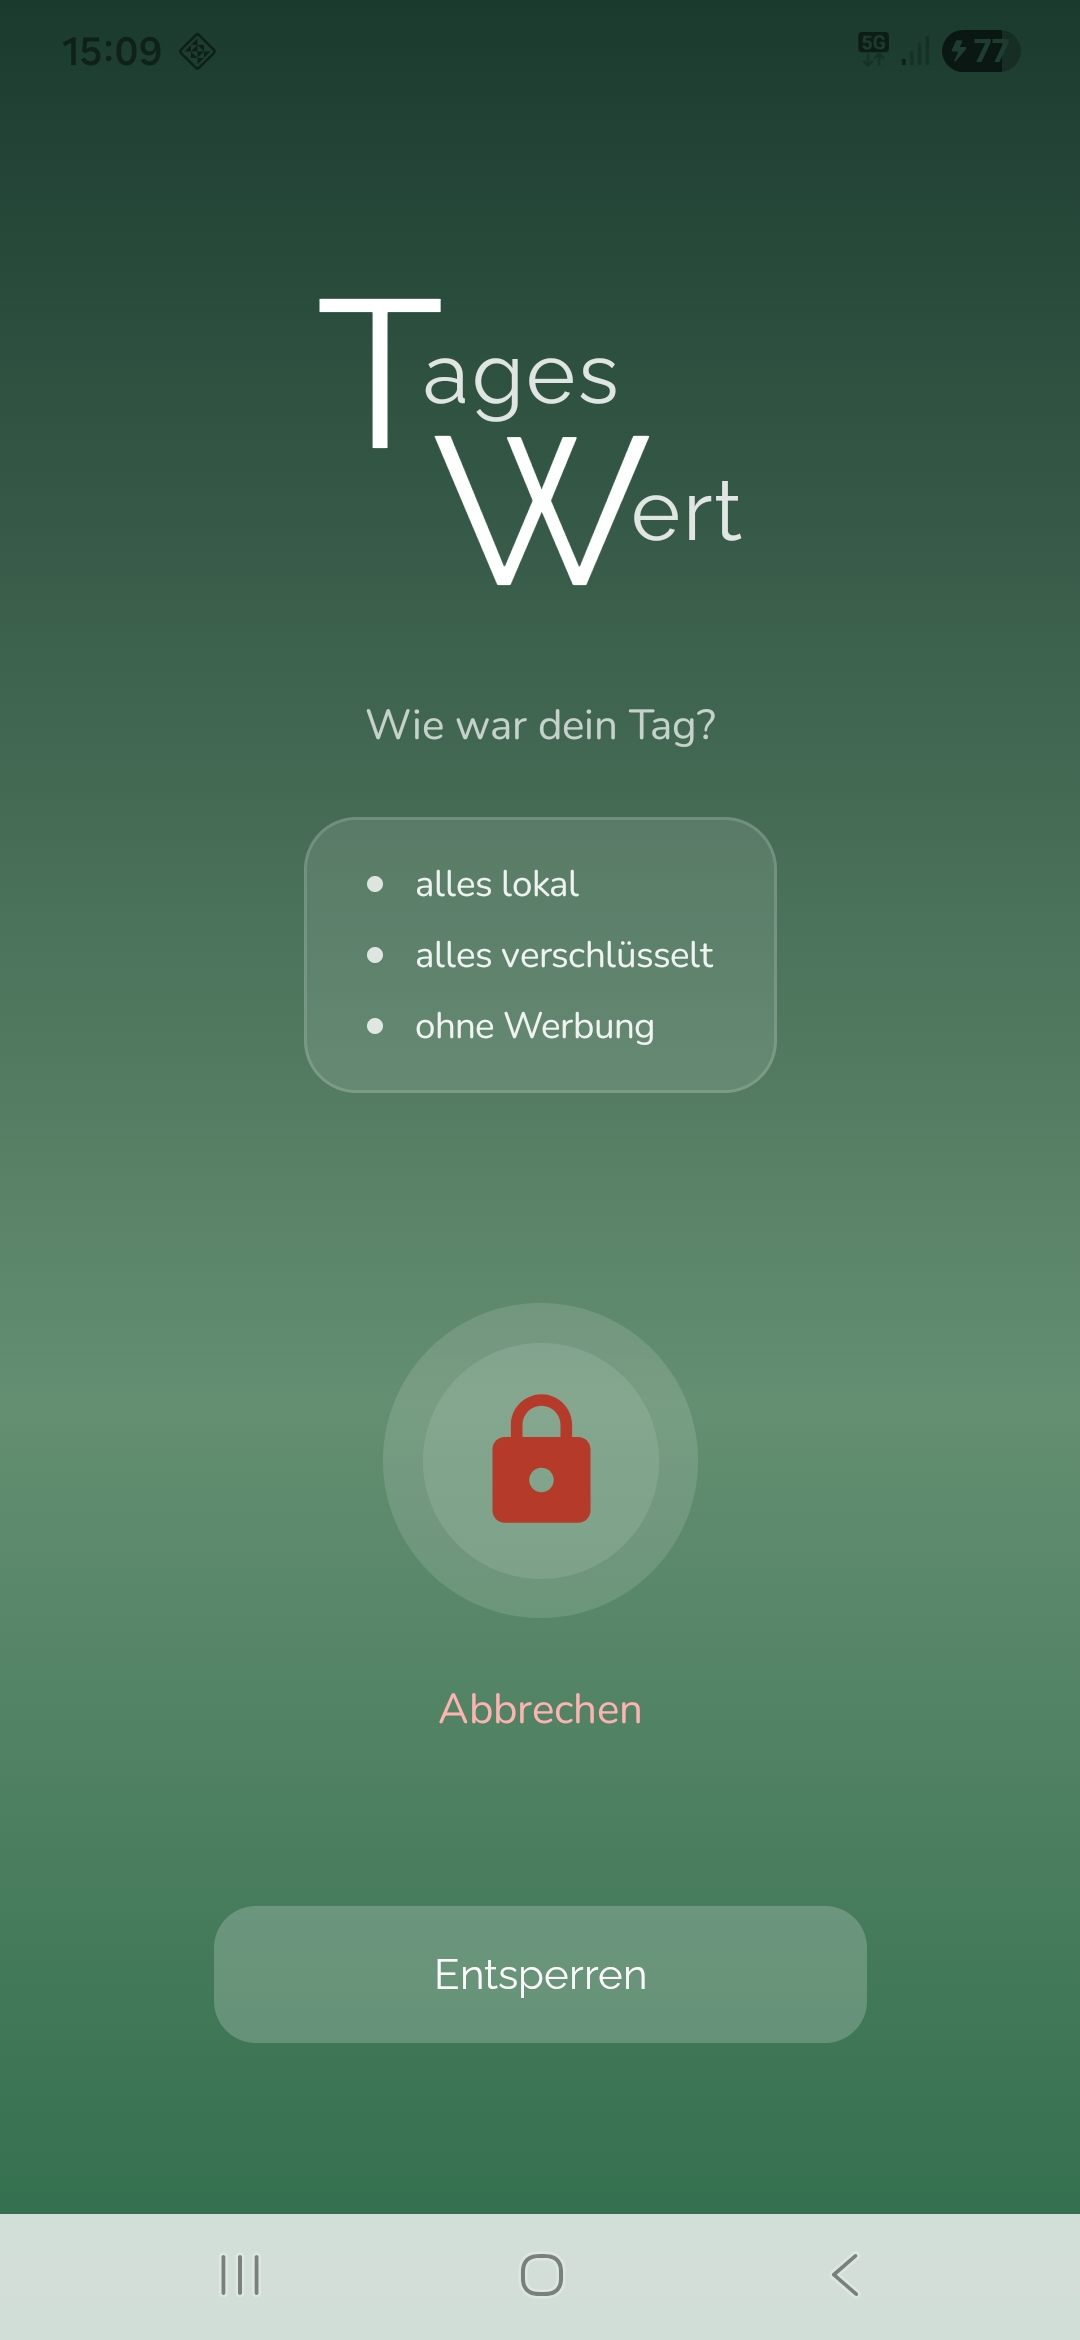
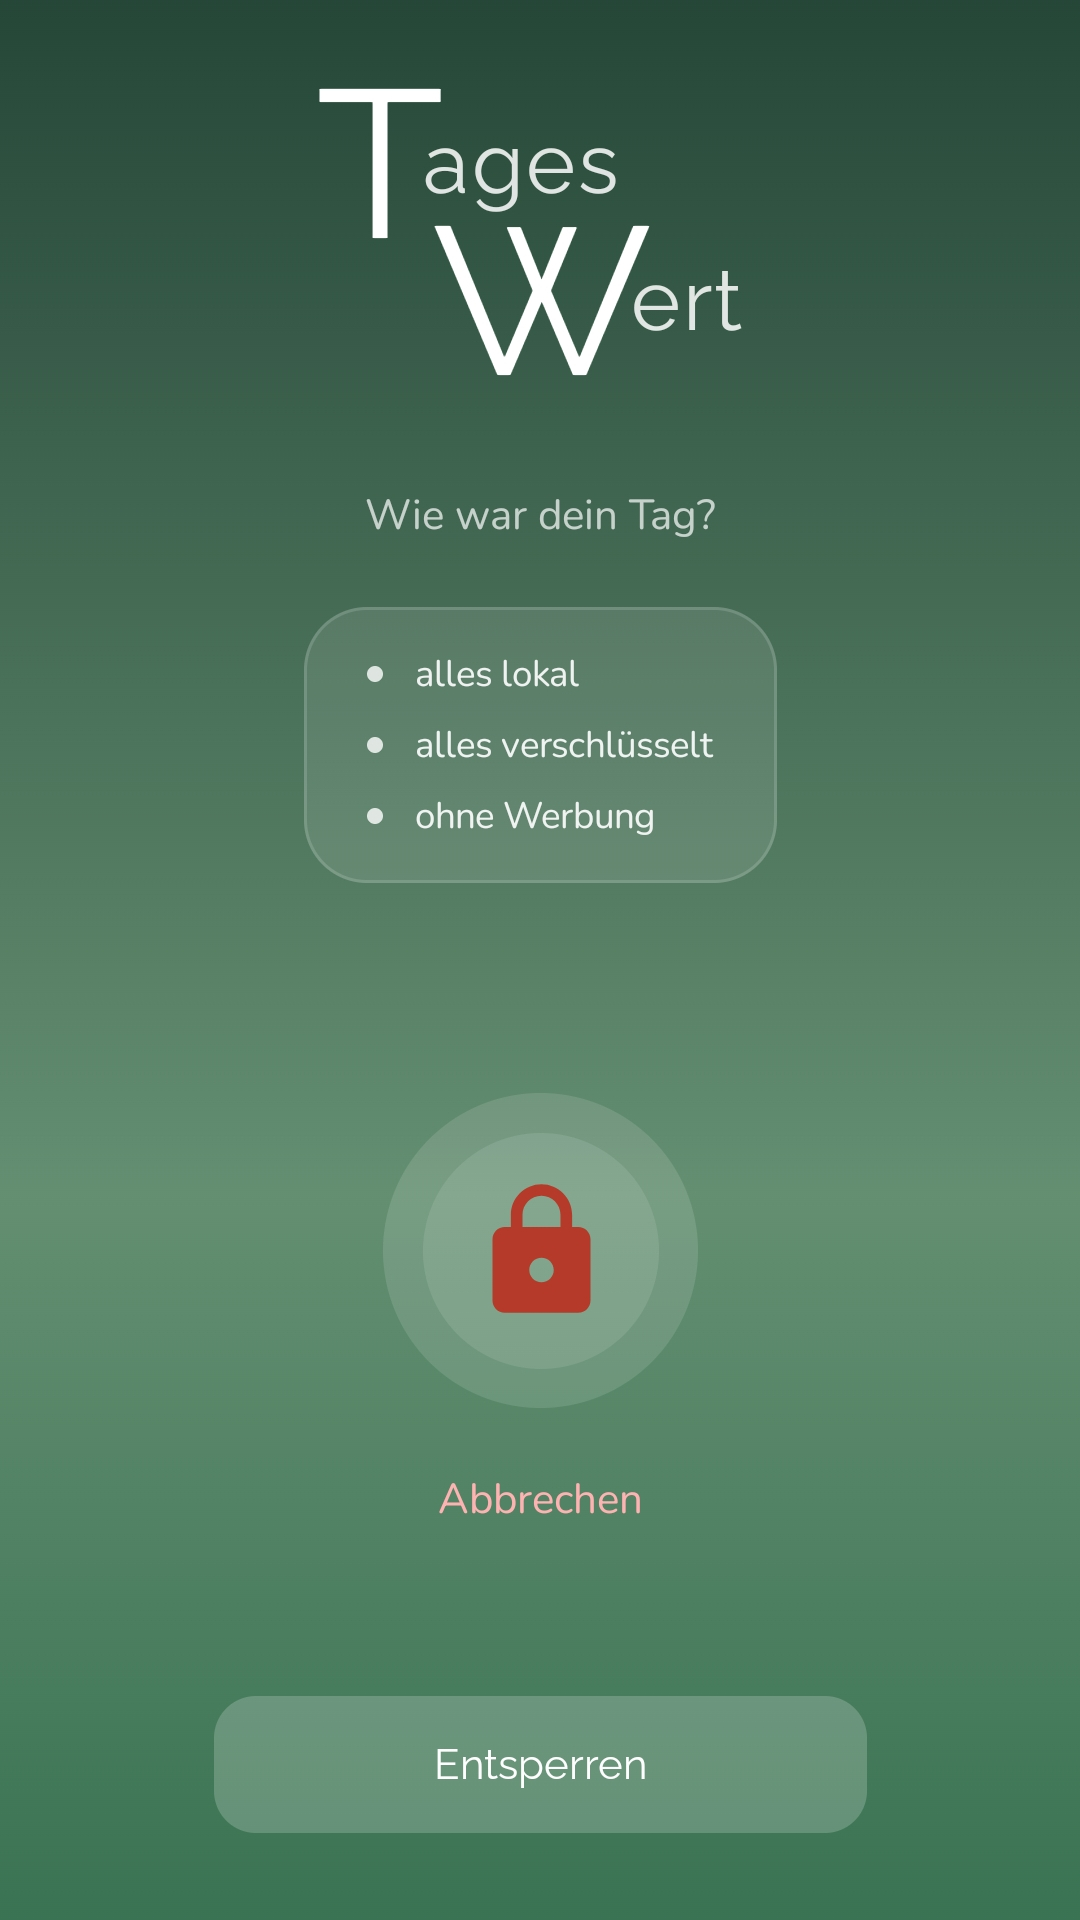
script to capture the screenshots

diff --git a/tagesjournal/AndroidApp/TagesWert/store/screenshots/capture_scrcpy.py b/tagesjournal/AndroidApp/TagesWert/store/screenshots/capture_scrcpy.py
@@ -1,0 +1,113 @@
+"""
+Capture a screenshot from the Android device via ADB (used by scrcpy),
+save it as a cropped PNG (324x576 px).
+
+Crop: cut 52 px from top, 104 px from bottom.
+
+Requirements:
+    pip install Pillow
+    adb must be on PATH (comes with Android SDK platform-tools or scrcpy bundle),
+    or set ADB_PATH below to the full path of adb.exe.
+"""
+
+import re
+import shutil
+import subprocess
+import sys
+import tempfile
+from pathlib import Path
+
+try:
+    from PIL import Image
+except ImportError:
+    print("Pillow is required: pip install Pillow")
+    sys.exit(1)
+
+
+SCRIPT_DIR  = Path(__file__).parent
+GRADLE_FILE = SCRIPT_DIR / "../../app/build.gradle.kts"
+
+
+def read_version_name() -> str:
+    text = GRADLE_FILE.read_text(encoding="utf-8")
+    m = re.search(r'versionName\s*=\s*"([^"]+)"', text)
+    if not m:
+        print(f"ERROR: versionName not found in {GRADLE_FILE}")
+        sys.exit(1)
+    return m.group(1)
+
+
+VERSION_NAME = read_version_name()
+
+
+def next_output_path() -> Path:
+    for i in range(100):
+        p = SCRIPT_DIR / f"TagesWert_{VERSION_NAME}_{i:02d}.png"
+        if not p.exists():
+            return p
+    print("ERROR: All 100 filename slots are taken (_00 … _99).")
+    sys.exit(1)
+
+
+OUTPUT_CROPPED = next_output_path()
+
+# Set to the full path of adb.exe if it is not on your PATH, e.g.:
+ADB_PATH = r"C:\temp\scrcpy\scrcpy-win64-v4.0\adb.exe"
+# ADB_PATH = shutil.which("adb") or "adb"
+
+CROP_TOP    = 140
+CROP_BOTTOM = 280
+
+
+def capture_via_adb() -> Image.Image:
+    """Save a screencap on the device, pull it locally, then delete it."""
+    if not shutil.which(ADB_PATH) and not Path(ADB_PATH).is_file():
+        print(
+            f"ERROR: adb not found ('{ADB_PATH}').\n"
+            "  Either add adb to your PATH or set ADB_PATH in this script.\n"
+            "  adb.exe is usually in the scrcpy folder or in:\n"
+            "  %LOCALAPPDATA%\\Android\\Sdk\\platform-tools\\"
+        )
+        sys.exit(1)
+
+    DEVICE_PATH = "/sdcard/capture_tmp.png"
+
+    def run(*args):
+        r = subprocess.run([ADB_PATH, *args], capture_output=True, timeout=30)
+        if r.returncode != 0:
+            print(f"ERROR: adb {' '.join(args)} failed: {r.stderr.decode(errors='replace').strip()}")
+            sys.exit(1)
+        return r
+
+    # 1. Capture on device
+    run("shell", "screencap", "-p", DEVICE_PATH)
+
+    # 2. Pull to a temp file (binary-safe file transfer, no stdout corruption)
+    with tempfile.NamedTemporaryFile(suffix=".png", delete=False) as tmp:
+        tmp_path = Path(tmp.name)
+    try:
+        run("pull", DEVICE_PATH, str(tmp_path))
+        img = Image.open(tmp_path).convert("RGB")
+        img.load()  # force read before file is deleted
+    finally:
+        tmp_path.unlink(missing_ok=True)
+
+    # 3. Delete from device
+    run("shell", "rm", DEVICE_PATH)
+
+    return img
+
+
+def main():
+    print("Capturing screenshot via ADB...")
+    img = capture_via_adb()
+
+    # Crop: remove CROP_TOP from top, CROP_BOTTOM from bottom
+    # PIL crop box: (left, upper, right, lower)
+    cropped = img.crop((0, CROP_TOP, img.width, img.height - CROP_BOTTOM))
+    cropped.save(OUTPUT_CROPPED, "PNG")
+    print(f"Cropped         : {OUTPUT_CROPPED}  ({cropped.width}x{cropped.height} px)")
+
+
+if __name__ == "__main__":
+    main()

diff --git a/tagesjournal/Prompt.md b/tagesjournal/Prompt.md
@@ -6,7 +6,7 @@ This list is updated as soon as the stuff works, only the next few points (TODOs
 1. Tutorial: add a 1/6 counter to the title.  
 1. Entry page: there is a green button on green background. Add a card around it.  
 1. re-think the picture-in-picture mode. Not really a use case, app should close or go into the background.  
-1. write a python script to automatically derive screen shots from all screens. Use the scrcpy tool to get them. Make use of the versionName (e.g. "2026.06.09") to derive the file name.  
+
 1. rework the settings page, make it more clearly arranged. Maybe: change name and symbol to import/export. Maybe have the link to the import/export at the page where all entries are visible and thus no special symbol anymore on the main page?
 1. clean up the code. Check for newer stable versions of dependencies and in general reduce the number of imports and dependencies.  
 1. try out some different UIs / colors. TODO: maybe with another tool (figma)
@@ -14,11 +14,11 @@ This list is updated as soon as the stuff works, only the next few points (TODOs
 
 
 ## Webpage
-1. Refine it. Use the overview screenshot instead of the store-picture and use the Raleway font for the title. Change the texts.  
+1. Refine it. Use the overview screenshot instead of the store-picture and use the Raleway font for the title. Change the texts. Font is available on https://widmedia.ch/schwimmmesser/fonts/raleway-v12-latin-regular.woff
 
 
 ## GIT re-org
-1. move the start folder
+1. test on second workspace
 
 
 ## App store
